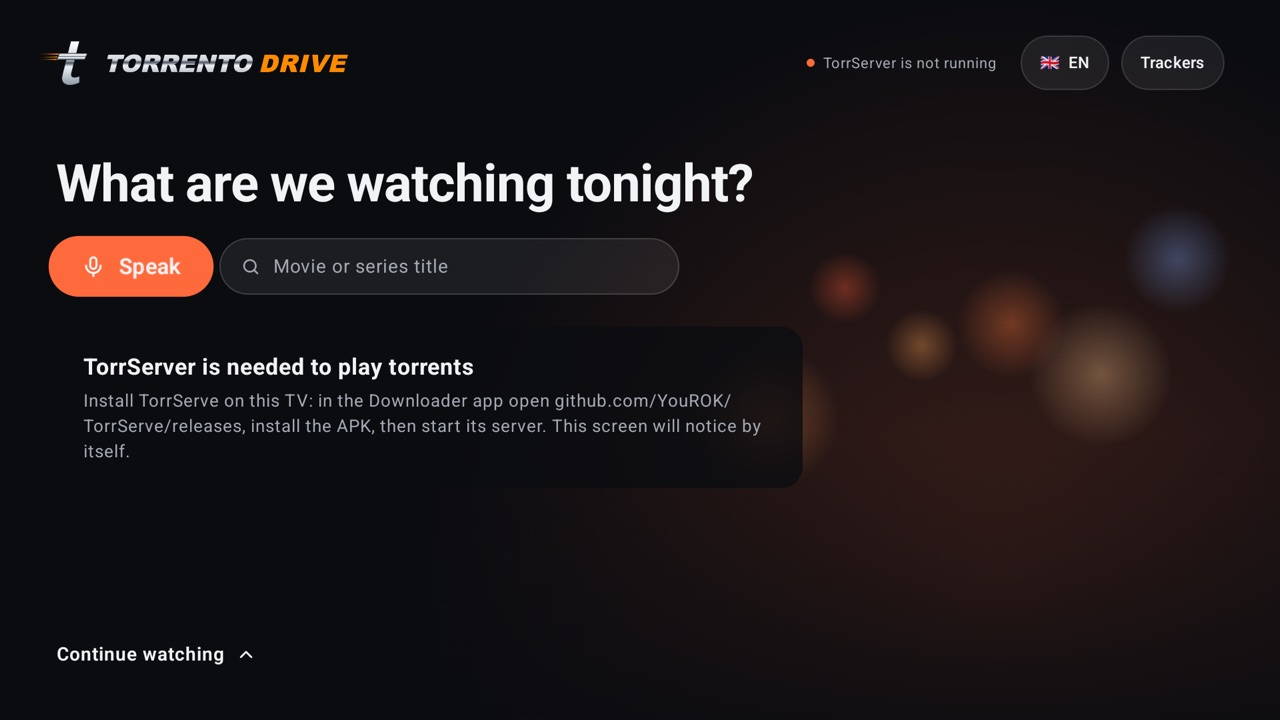
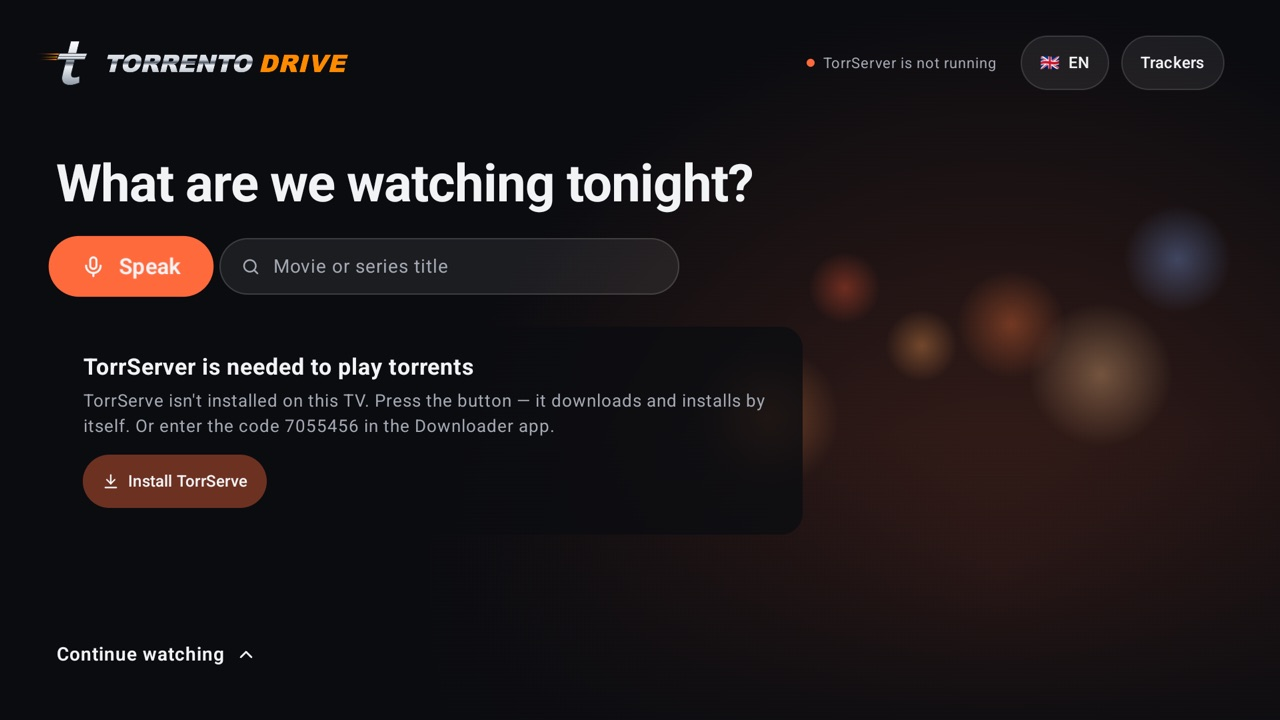
Install guide: start the server inside TorrServe, Play Protect, Russian screenshots

Changed region(s): [[0.0625, 0.55, 0.5938, 0.7028]]

diff --git a/README.ru.md b/README.ru.md
@@ -9,7 +9,7 @@
 
 **English version: [README.md](README.md)**
 
-![Главный экран](docs/screenshots/home.jpg)
+![Главный экран](docs/screenshots/ru/home.jpg)
 
 ## Как поставить на телевизор
 
@@ -25,19 +25,40 @@
 
 1. Открой Downloader. В поле *Enter a URL or Search Term* введи код **`7055456`** и нажми **Go**.
 2. APK скачается. Если Android спросит, можно ли Downloader устанавливать приложения, — открой
-   предложенные настройки, разреши, вернись назад и нажми **Install**.
-3. Открой TorrServe и проверь, что его сервер запущен. Если он предложит установить или обновить
-   сервер — соглашайся.
+   предложенные настройки, разреши, вернись назад и нажми **Установить**.
+3. На новых телевизорах Google Play Protect может написать *«Небезопасное приложение
+   заблокировано — приложение создано для более старой версии Android»*. Это про возраст
+   TorrServe, а не вирус: открой **Подробнее** и нажми **Всё равно установить**.
 
-### 3. Поставь Torrento Drive
+### 3. Запусти TorrServer внутри TorrServe
 
-1. Снова в Downloader введи код **`6719325`**, нажми **Go**, потом **Install**.
+TorrServe — это только оболочка, сам сервер нужно один раз установить и запустить. Без этого
+шага Torrento Drive будет писать *«TorrServer не запущен»*.
+
+1. Открой **TorrServe**.
+2. В меню слева выбери **Обновление**, нажми **Установить / обновить сервер** и подожди
+   несколько секунд.
+3. Готово, когда адрес **localhost:8090** слева вверху стал зелёным, а под ним появилась версия
+   сервера (*MatriX.…*):
+
+   ![TorrServe: Обновление → Установить / обновить сервер](docs/screenshots/torrserve-update.jpg)
+
+4. Советую: в **Настройках** TorrServe включи **Запускать сервер при загрузке** — тогда сервер
+   будет работать и после перезагрузки телевизора.
+5. Нажми на пульте **Домой** — сервер продолжит работать в фоне.
+
+### 4. Поставь Torrento Drive
+
+1. Снова в Downloader введи код **`6719325`**, нажми **Go**, потом **Установить**.
 2. Открой Torrento Drive из списка приложений. Разреши микрофон — он нужен для голосового поиска.
 3. Готово: нажми **Сказать** и произнеси название или набери его. Rutor работает сразу; для
    RuTracker нажми **Трекеры** и войди на его сайте.
 
-Если TorrServe не установлен, на главном экране будет кнопка **Установить TorrServe** — она
-сама скачает и поставит его. Если сервер не запущен, экран подскажет, что делать.
+Можно и наоборот — сначала поставить Torrento Drive: если TorrServe нет, на главном экране будет
+кнопка **Установить TorrServe**, она сама его скачает и поставит (потом сделай шаг 3). Если
+сервер не запущен, главный экран так и скажет:
+
+![TorrServer не запущен](docs/screenshots/ru/setup.jpg)
 
 ### Обновления
 
@@ -66,7 +87,7 @@ https://github.com/nindzyago/torrento-drive/releases/latest/download/torrento-dr
 
 | История поиска | Продолжить просмотр | Язык |
 |---|---|---|
-| ![](docs/screenshots/history.jpg) | ![](docs/screenshots/continue.jpg) | ![](docs/screenshots/language.jpg) |
+| ![](docs/screenshots/ru/history.jpg) | ![](docs/screenshots/ru/continue.jpg) | ![](docs/screenshots/ru/language.jpg) |
 
 ## Что умеет
 

diff --git a/README.md b/README.md
@@ -27,18 +27,38 @@ On the TV open Google Play (the Amazon Appstore on Fire TV), search for **Downlo
    press **Go**.
 2. The APK downloads. If Android asks whether Downloader may install apps, open the settings it
    offers, allow it, go back and press **Install**.
-3. Open TorrServe and make sure its server is running. If it offers to install or update the
-   server, agree.
+3. On newer TVs Google Play Protect may say *"Unsafe app blocked — This app was built for an
+   older version of Android"*. That is about TorrServe's age, not a virus: open
+   **More details** and press **Install anyway**.
 
-### 3. Install Torrento Drive
+### 3. Start the TorrServer inside TorrServe
+
+TorrServe is only a shell — the server itself has to be installed and started once. Without
+this step Torrento Drive will keep saying *"TorrServer is not running"*.
+
+1. Open **TorrServe**.
+2. In the menu on the left choose **Update**, then press **Install / Update server** and wait
+   a few seconds.
+3. Done when the address **localhost:8090** at the top left turns green and the server
+   version (*MatriX.…*) appears under it:
+
+   ![TorrServe: Update → Install / Update server](docs/screenshots/torrserve-update.jpg)
+
+   *(TorrServe follows the TV language; the screenshot is from a Russian TV.)*
+4. Recommended: in TorrServe **Settings** turn on **Start Server on Boot**, so the server is
+   running after the TV restarts too.
+5. Press the remote's **Home** button — the server keeps running in the background.
+
+### 4. Install Torrento Drive
 
 1. Back in Downloader, type the code **`6719325`** and press **Go**, then **Install**.
 2. Open Torrento Drive from the TV's app list. Allow the microphone for voice search.
 3. That's it: press **Speak** and say a title, or type it. Rutor works right away; for
    RuTracker press **Trackers** and sign in on its own website.
 
-If TorrServe isn't installed, the home screen offers an **Install TorrServe** button that
-downloads and installs it for you; if its server isn't running, it tells you what to do:
+You can also install Torrento Drive first: if TorrServe isn't there, the home screen has an
+**Install TorrServe** button that downloads and installs it (then do step 3). If the server
+isn't running, the home screen says so:
 
 ![TorrServer is not running](docs/screenshots/setup.jpg)
 
